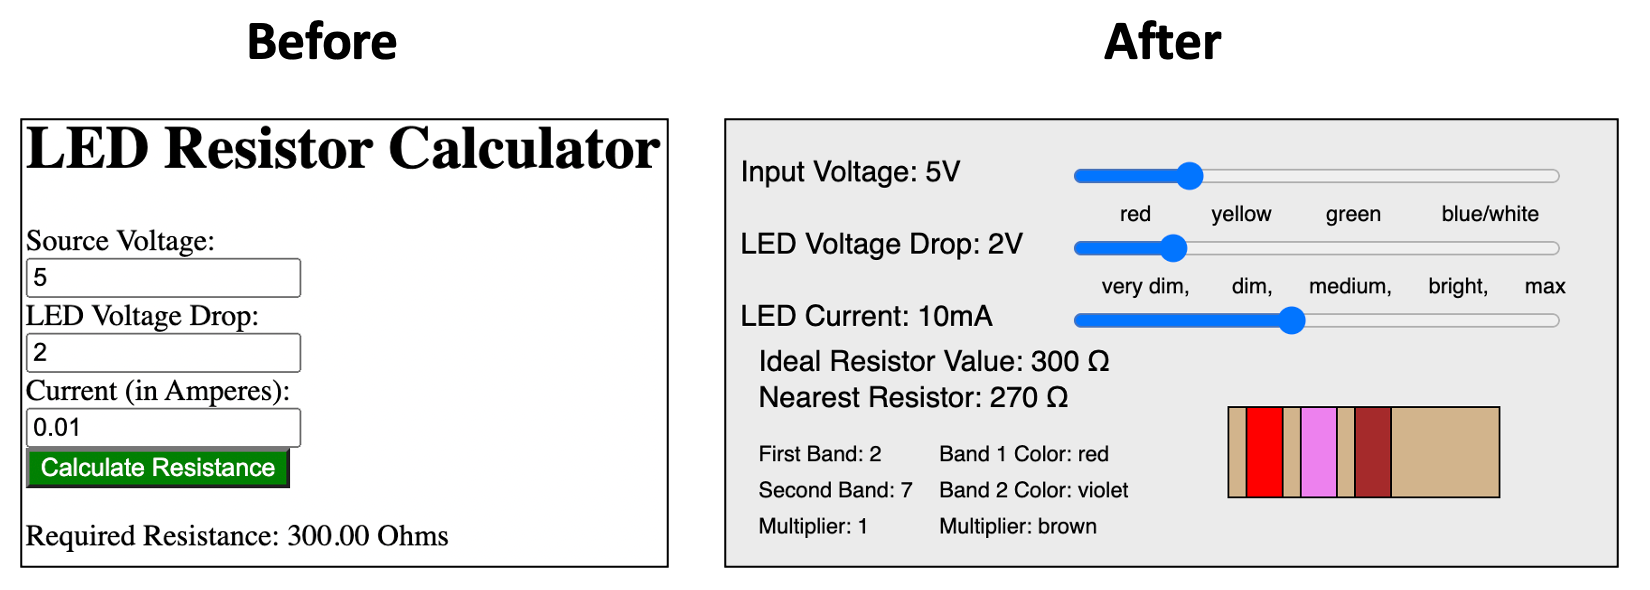
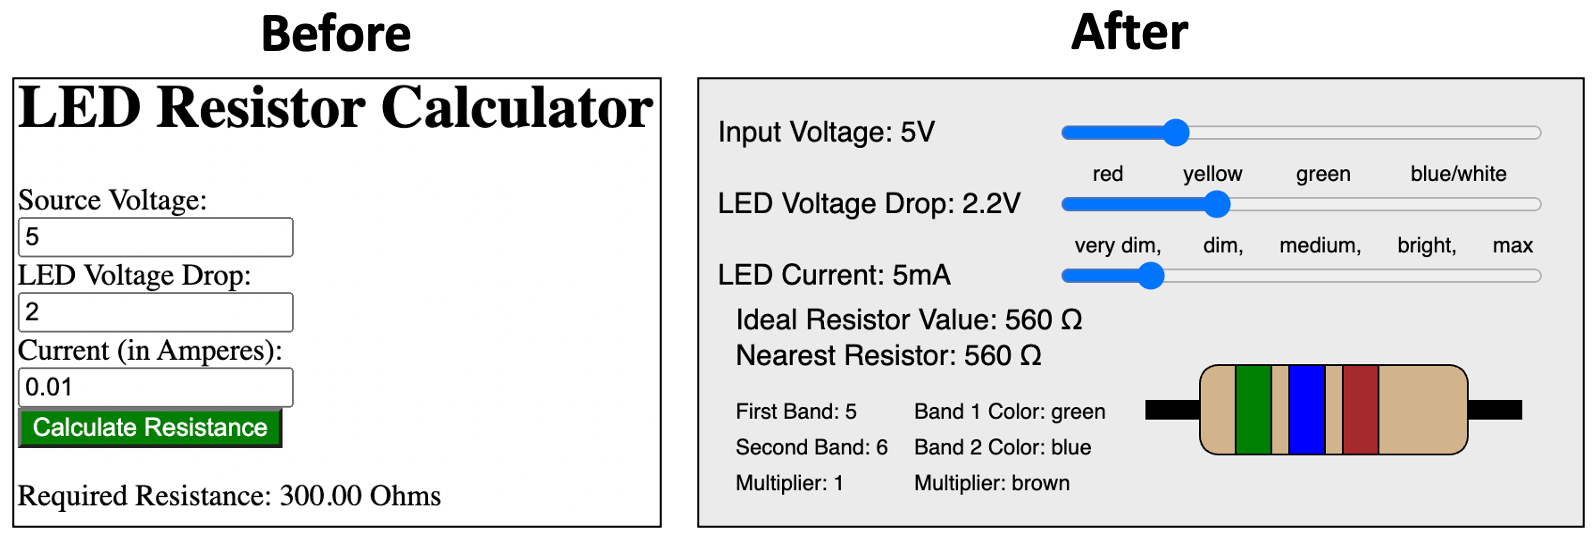
updating content

Changed region(s): [[0.0, 0.0, 1.0, 0.9814]]

diff --git a/docs/sims/led-resistor-calc/led-resistor-calc.js b/docs/sims/led-resistor-calc/led-resistor-calc.js
@@ -105,6 +105,10 @@ function ensureIndexInRange(index, array) {
 
 function drawResistor(x, y, w, h, bands) {
   // Draw the resistor body
+
+  // Draw the wire below
+  fill('black');
+  rect(x-30, y+20, w+60, 10);
   fill("tan");
   // 4th parameter is round corners
   rect(x, y, w, h, 15);
